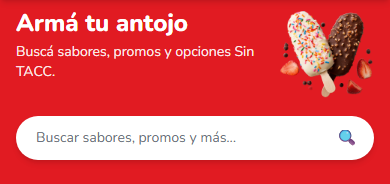
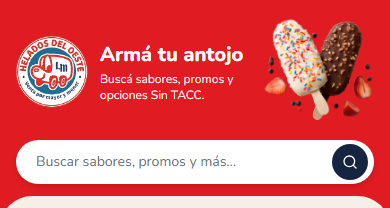
style: center hero title+art and enlarge title on desktop only

diff --git a/src/components/Hero.tsx b/src/components/Hero.tsx
@@ -10,11 +10,11 @@ export function Hero({ query, onQuery }: Props) {
   return (
     <section className="bg-brand-red px-4 pb-6 pt-4 text-white">
       <div className="mx-auto max-w-6xl">
-        <div className="flex items-center gap-3">
+        <div className="flex items-center gap-3 md:justify-center md:gap-10">
           <Logo className="h-[4.5rem] w-[4.5rem] shrink-0 md:hidden" />
-          <div className="flex-1">
-            <h1 className="text-xl font-black leading-tight md:text-4xl">Armá tu antojo</h1>
-            <p className="mt-1 max-w-md text-xs opacity-90 md:text-sm">
+          <div className="flex-1 md:flex-none">
+            <h1 className="text-xl font-black leading-tight md:text-6xl">Armá tu antojo</h1>
+            <p className="mt-1 max-w-md text-xs opacity-90 md:mt-2 md:text-lg">
               Buscá sabores, promos y opciones Sin TACC.
             </p>
           </div>
@@ -22,7 +22,7 @@ export function Hero({ query, onQuery }: Props) {
             src="/hero.webp"
             alt=""
             aria-hidden
-            className="h-28 w-28 shrink-0 object-contain md:h-44 md:w-44"
+            className="h-28 w-28 shrink-0 object-contain md:h-48 md:w-48"
           />
         </div>
         <div className="mt-3">
